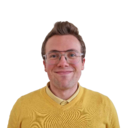
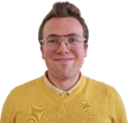
Krok 2: spawn zombie idących do gracza
Pula wrogów (maxSize z configu), spawn co sekundę w pierścieniu
780-800 px poza ekranem, limit 150 aktywnych, zombie idą do Bartka
i rozpychają się (kolizja wróg-wróg). Zombie jako obrazek zombie.png
z okrągłym ciałem kolizji, nowa grafika Bartka.

Changed region(s): [[0.0, 0.0, 1.0, 1.0], [0.25, 0.878, 0.3438, 1.0], [0.5938, 0.8293, 0.6875, 0.9024]]

diff --git a/src/scenes/GameScene.js b/src/scenes/GameScene.js
@@ -18,6 +18,29 @@ export default class GameScene extends Phaser.Scene {
 
     this.keys = this.input.keyboard.addKeys('W,A,S,D,UP,LEFT,DOWN,RIGHT');
     this.moveDir = new Phaser.Math.Vector2();
+
+    this.enemies = this.physics.add.group({
+      defaultKey: 'zombie',
+      maxSize: config.pools.enemies,
+      createCallback: (z) => {
+        const { height, bodyRadius } = config.textures.zombie;
+        z.setScale(height / z.height);
+        const r = bodyRadius / z.scale; // body sizes are in texture px, before scale
+        z.body.setCircle(r, z.width / 2 - r, z.height / 2 - r);
+      },
+    });
+    this.physics.add.collider(this.enemies, this.enemies);
+    this.time.addEvent({ delay: config.spawn.startIntervalMs, loop: true, callback: this.spawnZombie, callbackScope: this });
+  }
+
+  spawnZombie() {
+    if (this.enemies.countActive(true) >= config.spawn.maxEnemies) return;
+    const { ringMinRadius, ringMaxRadius } = config.spawn;
+    const angle = Phaser.Math.FloatBetween(0, Math.PI * 2);
+    const r = Phaser.Math.FloatBetween(ringMinRadius, ringMaxRadius);
+    const x = this.player.x + Math.cos(angle) * r;
+    const y = this.player.y + Math.sin(angle) * r;
+    this.enemies.get(x, y)?.enableBody(true, x, y, true, true);
   }
 
   update() {
@@ -26,5 +49,9 @@ export default class GameScene extends Phaser.Scene {
     const y = (k.S.isDown || k.DOWN.isDown) - (k.W.isDown || k.UP.isDown);
     this.moveDir.set(x, y).normalize().scale(config.player.speed);
     this.player.setVelocity(this.moveDir.x, this.moveDir.y);
+
+    for (const z of this.enemies.getChildren()) {
+      if (z.active) this.physics.moveToObject(z, this.player, config.zombie.speed);
+    }
   }
 }

diff --git a/src/config.js b/src/config.js
@@ -4,7 +4,7 @@ export const config = {
   pistol: { fireRateMs: 800, range: 400, bulletSpeed: 500, bulletDamage: 5, bulletsPerShot: 1 },
   zombie: { speed: 60, hp: 10, contactDamage: 10 },
   runner: { speed: 120, hp: 4, contactDamage: 10, appearsAtSec: 120 },
-  spawn: { startIntervalMs: 1000, minIntervalMs: 200, ringMinRadius: 700, ringMaxRadius: 800, maxEnemies: 150 },
+  spawn: { startIntervalMs: 1000, minIntervalMs: 200, ringMinRadius: 780, ringMaxRadius: 800, maxEnemies: 150 },
   xp: { gemValue: 1, magnetRadius: 80, gemSpeed: 400, baseToLevel: 5, perLevel: 5 },
   run: { durationSec: 600 },
   pools: { bullets: 100, enemies: 150, gems: 300 },
@@ -12,7 +12,7 @@ export const config = {
   textures: {
     bartek: { height: 80 }, // on-screen height; width follows the image's aspect ratio
     ground: { size: 64, color: 0x6e6e6e, lineColor: 0x555555, lineWidth: 2 },
-    zombie: { radius: 14, color: 0x2e8b2e },
+    zombie: { height: 56, bodyRadius: 22 }, // on-screen px; width follows the image
     runner: { radius: 11, color: 0x7cfc00 },
     bullet: { radius: 3, color: 0xffffff },
     gem: { size: 12, color: 0x3a8dff },

diff --git a/src/scenes/BootScene.js b/src/scenes/BootScene.js
@@ -5,13 +5,14 @@ export default class BootScene extends Phaser.Scene {
 
   preload() {
     this.load.image('bartek', './assets/bartek.png');
+    this.load.image('zombie', './assets/zombie.png');
   }
 
   create() {
     const t = config.textures;
     const g = this.add.graphics();
 
-    for (const key of ['zombie', 'runner', 'bullet']) {
+    for (const key of ['runner', 'bullet']) {
       const { radius, color } = t[key];
       g.fillStyle(color).fillCircle(radius, radius, radius);
       g.generateTexture(key, radius * 2, radius * 2).clear();

diff --git a/CLAUDE.md b/CLAUDE.md
@@ -23,6 +23,7 @@ Gra działa pod `http://localhost:8000`. Nie otwieraj `index.html` bezpośrednio
 index.html
 lib/phaser.min.js
 assets/bartek.png
+assets/zombie.png
 src/main.js              konfiguracja Phaser.Game i lista scen
 src/config.js            WSZYSTKIE liczby balansu
 src/state.js             obiekt run (reset co rundę) i obiekt save (trwały, na razie pusty)
@@ -45,7 +46,7 @@ Nowy plik tylko wtedy, gdy zadanie tego wymaga. Jedna scena na plik.
 4. **Pooling.** Pociski, wrogowie i kryształy XP to `Phaser.Physics.Arcade.Group` z `maxSize`. Używaj ponownie obiektów (`get`, `setActive`, `setVisible`), nie twórz i nie niszcz ich w każdej klatce.
 5. **Ruch zależny od czasu.** Wszystko, co się porusza lub odlicza, korzysta z `delta` albo z fizyki Arcade, nigdy z liczby klatek.
 6. **Tylko bieżący krok.** Robisz wyłącznie to, co jest w treści zadania. Funkcje z listy "Poza MVP" w `docs/mvp.md` są zakazane, nawet jeśli wydają się łatwe.
-7. **Grafika zastępcza.** Do czasu, aż zadanie powie inaczej: Bartek to statyczny obrazek całego Bartka z `bartek.png` (ładowany w `BootScene`), zombie to zielone koła, biegacz to jasnozielone koło, pociski to małe białe kropki, kryształy XP to niebieskie romby. Wszystko poza Bartkiem rysuj przez `Graphics` i `generateTexture` w `BootScene`.
+7. **Grafika zastępcza.** Do czasu, aż zadanie powie inaczej: Bartek to statyczny obrazek całego Bartka z `bartek.png` (ładowany w `BootScene`), zombie to statyczny obrazek z `zombie.png`, biegacz to jasnozielone koło, pociski to małe białe kropki, kryształy XP to niebieskie romby. Wszystko poza Bartkiem i zombie rysuj przez `Graphics` i `generateTexture` w `BootScene`.
 8. **Teksty w grze po polsku.**
 
 ## Koniec każdego zadania

diff --git a/docs/mvp.md b/docs/mvp.md
@@ -20,7 +20,7 @@ MVP to bazowy Bartek z pistoletem, 2 typy zombie, XP z 5 ulepszeniami i jedna ru
 
 - Ruch WASD i strzałkami, 100 HP.
 - Po trafieniu 0,5 s nietykalności, bo bez tego horda zabija w ułamek sekundy.
-- Sprite: statyczny obrazek całego Bartka. Jedyna prawdziwa grafika w MVP.
+- Sprite: statyczny obrazek całego Bartka.
 
 ### Broń: pistolet
 
